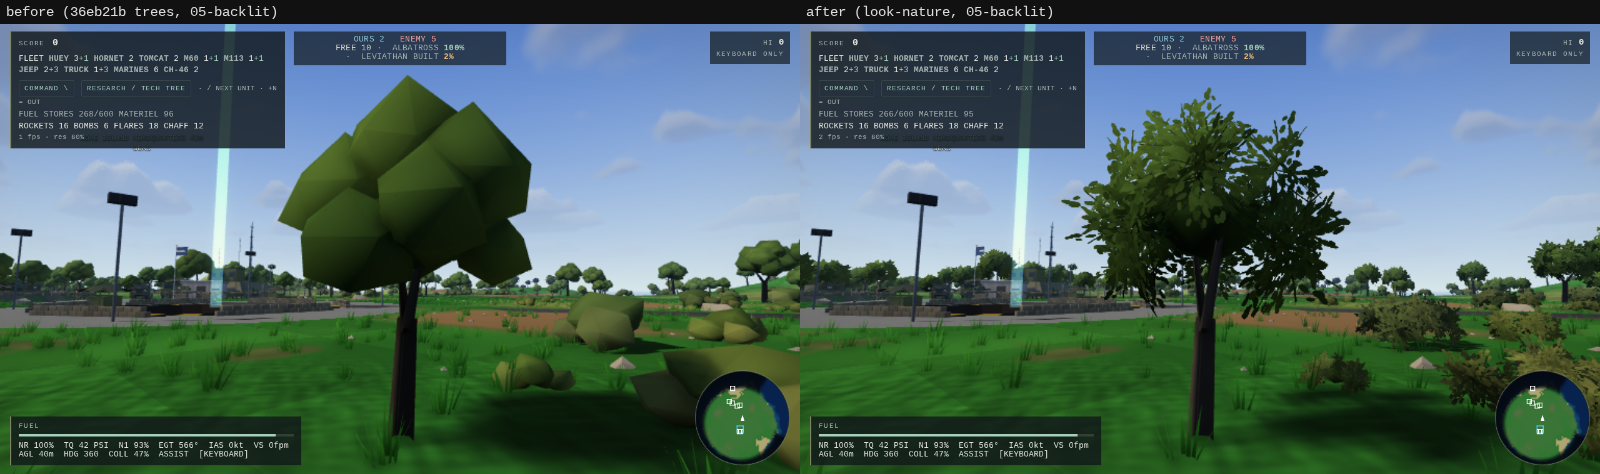
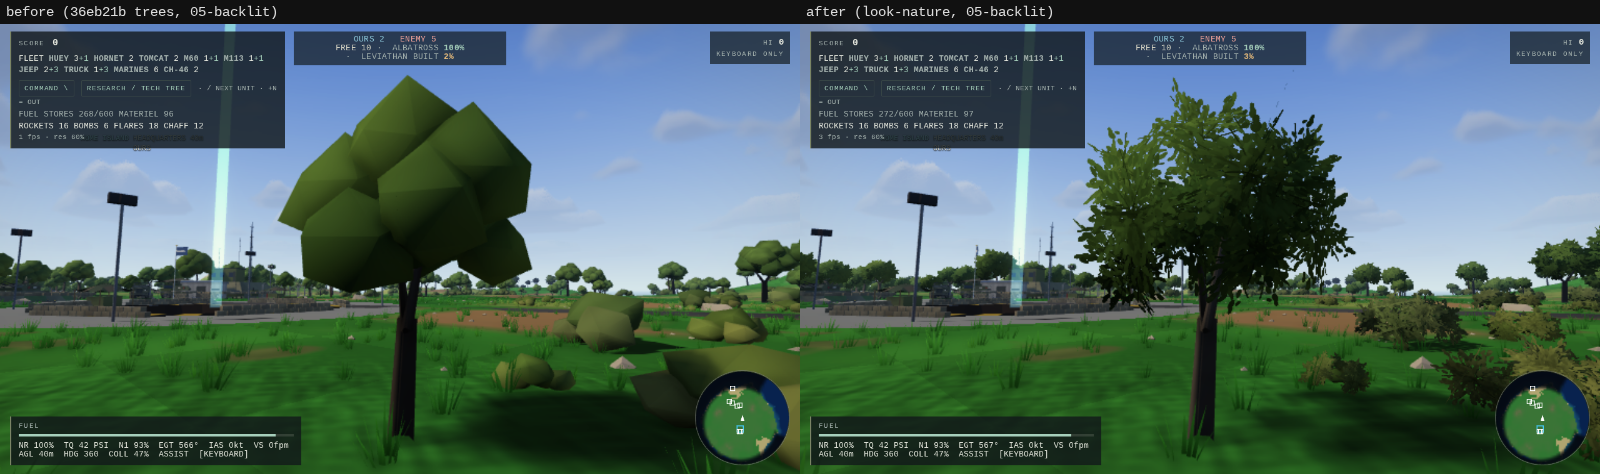
RENDERKIT nature: forest refill as a frame-budgeted job; inner leaf clusters instead of a hull; findings, MODLOG
- createForest: the refill scan runs under 2 ms a frame into staging lists and commits the
  instance buffers in one go (perf-cpu: the one-shot rebuild spiked frames up to 19.7 ms);
  clutter cell generation budget 6 -> 4 ms a frame.
- Detail oak / pine crowns: 2-3 darker inner leaf clusters replace the smooth hull, which
  showed as a ball among the cards; the mid LOD and scrub keep a small octahedron.
- Side-by-sides regenerated; findings: foot.mjs controls under load (rk=0 passes, RenderKit
  without nature fails the same carrier steps); MODLOG entry.

diff --git a/game/js/renderkit/nature.js b/game/js/renderkit/nature.js
@@ -142,11 +142,18 @@ class Builder {   // non-indexed triangles: position, normal, color (linear, AO 
     }
   }
   // ngc/look-nature: a broadleaf / pine crown as n leaf clusters (crossed cards, tile) on an ellipsoid shell round C (radii
-  // A) over a dark low-poly hull that keeps the crown from reading hollow; cluster size szK * A.x. top: 0..1 how far the
-  // clusters keep to the upper shell (the pine's umbrella). Normals point away from C: the crown shades as one volume.
-  cardCrown(C, A, n, szK, P, r, tile, { top = 0, hullOct = false, per = 3, hull = 0.46 } = {}) {
+  // A); cluster size szK * A.x. top: 0..1 how far the clusters keep to the upper shell (the pine's umbrella). What keeps
+  // the crown from reading hollow: `inner` darker clusters near the middle (detail: a smooth hull showed as a ball among
+  // the textured cards) or a low-poly hull (`hull` > 0: the mid LOD and the scrub, where it is a few pixels). Normals
+  // point away from C: the crown shades as one volume.
+  cardCrown(C, A, n, szK, P, r, tile, { top = 0, hullOct = false, per = 3, hull = 0.46, inner = 0 } = {}) {
     const ga = Math.PI * (3 - Math.sqrt(5)), ax = Math.max(A[0], A[2]);
-    this.clump(C, A[0] * hull, A[1] * hull * 0.92, A[2] * hull, mulc(P.leaf, 0.78), r, C, ax, hullOct);
+    if (hull > 0) this.clump(C, A[0] * hull, A[1] * hull * 0.92, A[2] * hull, mulc(P.leaf, 1.45), r, C, ax, hullOct);   // (clump shading takes the core to ~0.3)
+    for (let j = 0; j < inner; j++) {
+      const th = j / inner * Math.PI * 2 + r(), y = (r() - 0.5) * 0.6, d = 0.28 + r() * 0.15, dir = norm3([Math.cos(th), y, Math.sin(th)]);
+      const o = [C[0] + dir[0] * A[0] * d, C[1] + dir[1] * A[1] * d, C[2] + dir[2] * A[2] * d], col = mulc(P.leaf, 0.7);
+      this.cluster(o, dir, ax * szK * 0.95, tile, () => mulc(col, 0.85 + r() * 0.3), C, r, 3);
+    }
     for (let i = 0; i < n; i++) {
       const y = 1 - (i + 0.5) / n * (1.6 - top * 0.75), rad = Math.sqrt(Math.max(0, 1 - y * y)), th = i * ga + r() * 0.7, d = 0.72 + r() * 0.2;
       const dir = [Math.cos(th) * rad, y, Math.sin(th) * rad], o = [C[0] + dir[0] * A[0] * d, C[1] + dir[1] * A[1] * d, C[2] + dir[2] * A[2] * d];
@@ -217,11 +224,11 @@ function treeGeo(kind, level) {
     B.trunk([0, -0.4, 0], [0.12, 2.2, 0], 0.17, 0.12, detail ? 6 : 4, P.trunk);
     B.trunk([0.12, 2.2, 0], top, 0.12, 0.06, detail ? 6 : 4, P.trunk);
     if (detail) { B.trunk([0.15, 3.0, 0], [-0.75, 3.95, 0.5], 0.07, 0.03, 4, P.trunk); B.trunk([0.18, 3.2, 0], [0.95, 4.05, -0.5], 0.07, 0.03, 4, P.trunk); B.trunk([0.2, 3.6, 0.05], [0.1, 4.3, 0.95], 0.05, 0.03, 3, P.trunk); }
-    B.cardCrown([0.18, 4.6, 0.04], [1.55, 1.0, 1.45], detail ? 10 : 5, detail ? 0.56 : 0.76, P, r, 1, { top: 0.55, hullOct: !detail, hull: 0.42, per: detail ? 3 : 2 });
+    B.cardCrown([0.18, 4.6, 0.04], [1.55, 1.0, 1.45], detail ? 10 : 5, detail ? 0.56 : 0.76, P, r, 1, { top: 0.55, hullOct: !detail, hull: detail ? 0 : 0.3, inner: detail ? 2 : 0, per: detail ? 3 : 2 });
   } else if (kind === BROAD) {   // oak: short trunk, two limbs, a domed crown of leafy clusters
     B.trunk([0, -0.4, 0], [0, 1.9, 0], 0.22, 0.16, detail ? 6 : 4, P.trunk);
     if (detail) { B.trunk([0, 1.7, 0], [-0.7, 3.0, 0.35], 0.1, 0.05, 4, P.trunk); B.trunk([0, 1.7, 0], [0.7, 3.1, -0.3], 0.1, 0.05, 4, P.trunk); }
-    B.cardCrown([0, 3.4, 0], [2.05, 1.7, 1.95], detail ? 12 : 6, detail ? 0.55 : 0.76, P, r, 0, { hullOct: !detail, per: detail ? 3 : 2 });
+    B.cardCrown([0, 3.4, 0], [2.05, 1.7, 1.95], detail ? 12 : 6, detail ? 0.55 : 0.76, P, r, 0, { hullOct: !detail, hull: detail ? 0 : 0.46, inner: detail ? 3 : 0, per: detail ? 3 : 2 });
   } else {   // maquis scrub (lentisk, myrtle, broom): a low cushion of leafy clusters, no trunk to speak of. Unit: ~1.2 m tall.
     B.cardCrown([0, 0.42, 0], [0.95, 0.55, 0.9], detail ? 7 : 3, detail ? 0.55 : 0.8, P, r, 0, { top: 0.35, hullOct: true, per: detail ? 3 : 2 });
   }
@@ -507,7 +514,7 @@ export function createForest({ scene, fog = null, uTime = null, shared }) {
   }
   const sources = new Map();
   let dirty = true, farDirty = true, lastReach = 0; const last = new THREE.Vector3(1e9, 0, 0), lastDir = {};
-  const stats = { trees: 0, detail: 0, mid: 0, far: 0, ms: 0, rebuilds: 0, tris: 0 };
+  const stats = { trees: 0, detail: 0, mid: 0, far: 0, ms: 0, frames: 0, rebuilds: 0, tris: 0 };
   // trees: Float32Array x y z s per tree (+ optional kinds Uint8Array, seeds), far: draw past the near radius too (zone)
   function add(id, d, kinds, { far = false } = {}) {
     const n = kinds.length, D = new Float32Array(n * 8), C = new Float32Array(n * 3);
@@ -533,39 +540,56 @@ export function createForest({ scene, fog = null, uTime = null, shared }) {
     const s = sources.get(id); if (!s) return; const l = Math.hypot(dx, dz) || 1;
     s.d[i * 8 + 5] = dz / l * 1.35; s.d[i * 8 + 6] = -dx / l * 1.35; dirty = true; if (s.far) farDirty = true;
   }
-  function rebuild(cx, cy, cz, reach, C) {
-    const t0 = performance.now(), T = shared.tier, dOut = T.detailR + T.band + 12, mOut = Math.min(LOD.near + LOD.blend, reach) + 12, mIn = T.detailR - T.band - 12;
-    const M = T.liteMid ? sets.lite : sets.mid;   // the mid trees: icosahedron clumps, or octahedra on the low tier
-    for (const k of K) { sets.detail[k].begin(); sets.mid[k].begin(); sets.lite[k].begin(); }
-    let nd = 0, nm = 0;
-    for (const s of sources.values()) {
-      const bx = Math.max(s.x0 - cx, 0, cx - s.x1), bz = Math.max(s.z0 - cz, 0, cz - s.z1);
-      if (bx * bx + bz * bz > mOut * mOut) continue;
-      const D = s.d;
-      for (let i = 0; i < s.n; i++) {
-        const dx = D[i * 8] - cx, dy = D[i * 8 + 1] - cy, dz = D[i * 8 + 2] - cz, dd = dx * dx + dy * dy + dz * dz;
-        if (dd > mOut * mOut) continue;
-        const sc = D[i * 8 + 3]; if (!inCone(C, D[i * 8], D[i * 8 + 1] + 2.5 * sc, D[i * 8 + 2], 7 * sc + 3)) continue;   // (the crown and its shadow)
-        const k = s.k[i];
-        if (dd < dOut * dOut) { sets.detail[k].push(s, i); nd++; }
-        if (dd > mIn * mIn || mIn < 0) { M[k].push(s, i); nm++; }
+  // ngc/look-nature: the refill is a job spread over frames (perf-cpu profile: the one-shot rebuild spiked a frame by up to
+  // ~20 ms in the wild forests). The scan (distance + view cone per tree) runs under REBUILD_MS a frame into staging lists
+  // and the instance buffers are written in one commit at the end, so a set is never half-built (the old set stays on screen
+  // until then). Cone margin and the 6 m / CONE_TURN triggers leave room for the few frames a job takes.
+  const REBUILD_MS = 2;
+  let job = null;
+  function startJob(cx, cy, cz, reach, C) {
+    const T = shared.tier;
+    job = { cx, cy, cz, C, t0: performance.now(), work: 0, frames: 0, srcs: [...sources.values()], si: 0, i: 0, phase: 0,
+      dOut: T.detailR + T.band + 12, mOut: Math.min(LOD.near + LOD.blend, reach) + 12, mIn: T.detailR - T.band - 12, fIn: Math.max(0, LOD.near - LOD.blend - 12),
+      M: T.liteMid ? 'lite' : 'mid', pick: { detail: K.map(() => []), mid: K.map(() => []), far: K.map(() => []) } };   // pick[level][kind] = [source, index, ...]
+  }
+  function stepJob(budget) {   // true when the scan is done
+    const J = job, tEnd = performance.now() + budget, { cx, cy, cz, C, dOut, mOut, mIn, fIn } = J;
+    let n = 0;
+    while (J.phase < 2) {
+      if (J.si >= J.srcs.length) { J.phase++; J.si = 0; J.i = 0; continue; }
+      const s = J.srcs[J.si], D = s.d;
+      if (J.i === 0) {   // whole sources out of reach (the mid / detail pass) or not the zone's (the far pass) are skipped at once
+        const bx = Math.max(s.x0 - cx, 0, cx - s.x1), bz = Math.max(s.z0 - cz, 0, cz - s.z1);
+        if (J.phase === 0 ? bx * bx + bz * bz > mOut * mOut : !s.far) { J.si++; continue; }
       }
-    }
-    let tris = 0;
-    for (const k of K) { sets.detail[k].end(); sets.mid[k].end(); sets.lite[k].end(); tris += sets.detail[k].n * sets.detail[k].tris + M[k].n * M[k].tris; }
-    {   // the zone's far set: only past the near band (inside it the far material discards every pixel) and in the cone
-      farDirty = false; const fIn = Math.max(0, LOD.near - LOD.blend - 12);
-      for (const k of K) sets.far[k].begin();
-      for (const s of sources.values()) if (s.far) for (let i = 0; i < s.n; i++) {
-        if (s.k[i] === SCRUB) continue;
-        const D = s.d, dx = D[i * 8] - cx, dy = D[i * 8 + 1] - cy, dz = D[i * 8 + 2] - cz, sc = D[i * 8 + 3];
-        if (dx * dx + dy * dy + dz * dz < fIn * fIn || !inCone(C, D[i * 8], D[i * 8 + 1] + 2.5 * sc, D[i * 8 + 2], 4 * sc + 2)) continue;
-        sets.far[s.k[i]].push(s, i);
+      for (; J.i < s.n; J.i++) {
+        if ((++n & 255) === 0 && performance.now() > tEnd) return false;
+        const i = J.i, dx = D[i * 8] - cx, dy = D[i * 8 + 1] - cy, dz = D[i * 8 + 2] - cz, dd = dx * dx + dy * dy + dz * dz, sc = D[i * 8 + 3], k = s.k[i];
+        if (J.phase === 0) {
+          if (dd > mOut * mOut || !inCone(C, D[i * 8], D[i * 8 + 1] + 2.5 * sc, D[i * 8 + 2], 7 * sc + 3)) continue;   // (the crown and its shadow)
+          if (dd < dOut * dOut) J.pick.detail[k].push(s, i);
+          if (dd > mIn * mIn || mIn < 0) J.pick.mid[k].push(s, i);
+        } else {   // the zone's far set: only past the near band (inside it the far material discards every pixel) and in the cone
+          if (k === SCRUB || dd < fIn * fIn || !inCone(C, D[i * 8], D[i * 8 + 1] + 2.5 * sc, D[i * 8 + 2], 4 * sc + 2)) continue;
+          J.pick.far[k].push(s, i);
+        }
       }
-      for (const k of K) sets.far[k].end();
+      J.si++; J.i = 0;
     }
-    for (const k of K) tris += sets.far[k].n * sets.far[k].tris;
-    Object.assign(stats, { detail: nd, mid: nm, far: K.reduce((a, k) => a + sets.far[k].n, 0), ms: +(performance.now() - t0).toFixed(2), tris, trees: [...sources.values()].reduce((a, s) => a + s.n, 0) });
+    return true;
+  }
+  function commitJob() {
+    const J = job, t0 = performance.now(), M = sets[J.M]; job = null; farDirty = false;
+    let tris = 0, nd = 0, nm = 0;
+    for (const k of K) {
+      for (const [lvl, set] of [['detail', sets.detail[k]], ['mid', M[k]], ['far', sets.far[k]]]) {
+        const L = J.pick[lvl][k]; set.begin(); for (let j = 0; j < L.length; j += 2) set.push(L[j], L[j + 1]); set.end(); tris += set.n * set.tris;
+      }
+      for (const lv of ['mid', 'lite']) if (lv !== J.M) { sets[lv][k].begin(); sets[lv][k].end(); }
+      nd += sets.detail[k].n; nm += M[k].n;
+    }
+    J.work += performance.now() - t0;
+    Object.assign(stats, { detail: nd, mid: nm, far: K.reduce((a, k) => a + sets.far[k].n, 0), ms: +J.work.toFixed(2), frames: J.frames, tris, trees: J.srcs.reduce((a, s) => a + s.n, 0) });
     stats.rebuilds++;
   }
   function update(cam) {
@@ -573,7 +597,8 @@ export function createForest({ scene, fog = null, uTime = null, shared }) {
     // the mid set reaches the world near radius or the far clip, whichever is nearer (on foot the haze ends at ~265 m);
     // the zone's far set exists only for views that reach past the near band (the jet)
     const reach = cam.far || 1e4, farOn = reach > LOD.near - LOD.blend;
-    if (dirty || p.distanceToSquared(last) > 36 || Math.abs(reach - lastReach) > 40 || coneMoved(cam, lastDir)) { dirty = false; last.copy(p); lastReach = reach; coneMark(cam, lastDir); rebuild(p.x, p.y, p.z, reach, viewCone(cam)); }
+    if (!job && (dirty || p.distanceToSquared(last) > 36 || Math.abs(reach - lastReach) > 40 || coneMoved(cam, lastDir))) { dirty = false; last.copy(p); lastReach = reach; coneMark(cam, lastDir); startJob(p.x, p.y, p.z, reach, viewCone(cam)); }
+    if (job) { const t = performance.now(); job.frames++; const done = stepJob(REBUILD_MS); job.work += performance.now() - t; if (done) commitJob(); }
     for (const k of K) sets.far[k].mesh.visible = farOn && sets.far[k].n > 0;
     stats.farOn = farOn;
   }
@@ -663,7 +688,7 @@ export function createClutter({ scene, fog = null, uTime = null, shared, sample 
       const i = ci + di, j = cj + dj, x = (i + 0.5) * CELL - p.x, z = (j + 0.5) * CELL - p.z;
       if (x * x + z * z > (reach + CELL) * (reach + CELL)) continue;
       let c = cells.get(key(i, j));
-      if (!c) { if (genBudget > 6) { complete = false; continue; } const g0 = performance.now(); c = gen(i, j); cells.set(key(i, j), c); genBudget += performance.now() - g0; }
+      if (!c) { if (genBudget > 4) { complete = false; continue; } const g0 = performance.now(); c = gen(i, j); cells.set(key(i, j), c); genBudget += performance.now() - g0; }   // (generation budget 6 -> 4 ms a frame: ngc/look-nature, frame spikes)
       c.used = true;   // (cells out of the cone are generated too, nearest first, so a turn finds them ready)
       if (!inCone(C, (i + 0.5) * CELL, c.y, (j + 0.5) * CELL, CELL * 0.71 + 2.5 + c.dy)) continue;
       for (const t of types) { const a = c[t], d = dens[t]; for (let o = 0; o < a.length; o += 11) if (fract(a[o + 7] * 7.31) < d) pushRaw(sets[t], a, o); }

diff --git a/docs/ngc1980/findings/look-nature.md b/docs/ngc1980/findings/look-nature.md
@@ -44,8 +44,9 @@ Huey at 30 m and 200 m, and the jet at 1200 m.
   RGB is a grey leaf-to-leaf shade that multiplies the vertex colour, and A is the mask. Transparent texels carry mid grey
   so the mips don't darken the edges.
 - **Cards** (`Builder.card / cluster / cardCrown / fringe`): a crown is 10-12 clusters of three crossed cards (one
-  across the outward direction, two along it, turned at random) on an ellipsoid shell. They sit over a small dark
-  low-poly hull (46 % of the crown, 42 % for the pine), so the crown never reads hollow. Normals are bent to point away
+  across the outward direction, two along it, turned at random) on an ellipsoid shell, plus 2-3 darker inner clusters near the middle so the crown never reads hollow. A first version
+  used a smooth low-poly hull for that, and it showed as a dark (then a smooth green) ball among the textured cards in
+  the village and forest-edge views. The mid LOD and the scrub keep a small octahedron hull, a few pixels at their size. Normals are bent to point away
   from the crown's centre (sphere normals, bend 0.8), so a crown shades as one soft volume. AO is baked per vertex from
   the corner's place in the crown. The fir keeps a smaller, darker star skirt as its inner mass, fringed by 10 drooping
   branch-spray cards per tier (alternate heights, random roll) and a leader tuft. Maquis (and the clutter bushes, which
@@ -65,7 +66,7 @@ Huey at 30 m and 200 m, and the jet at 1200 m.
 - **Grass tufts**: 13 -> 10 blades, slightly wider. The 15 random draws of the dropped blades are burnt, so the clutter
   rocks built next from the same stream keep their exact shapes (rocks belong to look-terrain).
 
-Triangles per tree (detail / mid; before -> after): oak 228 / 88 -> 120 / 40; pine 220 / 96 -> 126 / 44; fir
+Triangles per tree (detail / mid; before -> after): oak 228 / 88 -> 118 / 40; pine 220 / 96 -> 118 / 44; fir
 152 / 38 -> 170 / 74; maquis and the clutter bush 80 / 40 -> 50 / 20; grass tuft 39 -> 30.
 
 ## 2026-10-28 - Village, garden and hedgerow trees on the species
@@ -98,3 +99,35 @@ double-sided throughout, cost 261 ms. Whole-frame sync draw times between separa
 machine (the jet view, whose geometry is unchanged, measured 434 and 537 ms), so they're logged per view by
 `looknature.mjs` but not compared. A close crown filling the screen costs more fill than a blob (3-4 card layers);
 that is the honest trade, and the real-GPU A/B is still open.
+
+## 2026-10-28 - Forest refill spread over frames (perf-cpu request)
+**Finding**: the perf-cpu agent's profile found `createForest rebuild` (the one-shot refill) spiking frames by up to
+19.7 ms. It scanned every tree of every source in reach, then wrote the instance buffers, all in one frame. The view
+cone makes refills more frequent (a 0.16 rad turn triggers one), so this mattered more.
+**Action**: the refill is a job (`startJob / stepJob / commitJob`). The scan (distance + cone per tree, then the zone's
+far set) runs under `REBUILD_MS` = 2 ms a frame into staging lists of (source, index). The buffers are written in one
+commit when the scan ends, so a set is never half-built, and the previous set stays on screen until then (the result is
+identical to the one-shot rebuild). A new job starts only after the current one commits; sources added or felled
+meanwhile set `dirty` for the next one. `stats.forest.frames` tells how many frames a job took. The clutter's cell
+generation budget went from 6 to 4 ms a frame for the same reason (cells fill a frame or two later after a teleport;
+the end result is the same).
+**Evidence**: `_probe_spike` (local, not committed: eye walking and turning 0.6 rad every 0.7 s through the mainland
+forest at (2600, 900), 16.8 k trees in sources, machine load ~70 on 32 cores). The forest update peaked at 4.3 ms, p95
+1.1 ms, median 0. Clutter peaked at 7.6 ms with the 6 ms budget (measured before the cut to 4 ms).
+
+## 2026-10-28 - foot.mjs and machine load (OPEN)
+**Finding**: foot.mjs passed 12/12 after the view cone (8148fcc, load moderate). On the card build under load 45-110
+on 32 cores (other agents' headless runs), it failed 11/17. The steps that failed included the carrier turn at sea (a
+60 s wait) and the boot, which have nothing to do with the trees.
+**Evidence**: an in-page A/B at the stern ladder (`_probe_stern2`: forest shown / hidden, interleaved twice, 10 s each)
+gave 1.0 / 0.9 fps with the forest shown and 0.9 / 0.8 hidden (card build), and 1.2 / 1.0 shown, 1.1 / 1.1 hidden
+(old trees). The forest makes no measurable difference to that frame, and the frame rate is set by the load.
+**Cause**: the main loop clamps dt to 0.1 s, so below 10 fps game time runs slower than real time. foot.mjs's
+fixed real-time waits (40 s for an 8.5 game-second climb) need ~2.3 fps at res 0.45. Without nature, at moderate
+load, it already used 35 of the 40 s.
+**Controls under the same load (~70-85)**: `?rk=0` PASS 12/12. Every RenderKit area except nature FAIL 11/15 (the
+carrier turn, both ladders, the deck height). The full build (with nature) FAIL 10/17 (the same, plus the walk to the
+home pad and the final take-off). Under load the RenderKit build as a whole is too slow for foot's real-time waits.
+Nature adds the HQ-area steps, where its draw cost is highest.
+**Action**: nothing more in the game (nature's draw at the HQ is below the depth-nature build's: 1378 -> 566 kt). The suite needs a quiet machine,
+or game-time waits in the harness (a test-tool change, not made here: the brief said not to weaken the test).

diff --git a/MODLOG.md b/MODLOG.md
@@ -1,5 +1,21 @@
 # MODLOG — NGC-1980 (formerly Thrust/Zarch)
 
+## 2026-10-28 — look-nature: leaf-card trees, village trees on the species, foot.mjs with nature on
+
+Tree crowns were clusters of faceted icosahedra. On `ngc/look-nature` they are clustered leaf cards over a small dark
+hull, using a generated leaf atlas (broadleaf, pine tufts, fir sprays), with alpha-to-coverage edges, sphere normals,
+translucency toward the sun and leafy shadows. The fir is star skirts fringed with drooping branch sprays. Village,
+garden and hedgerow trees, which were the old trunk-and-blob merged into the world mesh, are now instances of the same
+species. Grass tufts have 10 blades, not 13.
+
+The nature sets were drawn without frustum culling and refilled with the whole ring round the eye. They now refill
+within the view cone, and the forest refill is spread over frames (2 ms a frame, one commit). At the home island HQ
+this takes rendered triangles from 1378 k to 566 k. foot.mjs failed 3/14 with nature on because the extra draw
+stretched its game-time waits; it passed 12/12 after the cone. Under heavy machine load from other agents it can still
+time out (see [findings](docs/ngc1980/findings/look-nature.md)). Before/after side-by-sides for the HQ, single trees,
+the forest edge, a village, the Huey at 30 / 200 m and the jet at 1200 m are in
+`docs/ngc1980/evidence/look-nature/` (`tools/scenes/looknature.mjs`).
+
 ## 2026-10-26 — Continuum reusable shader and UI library
 
 Added an opt-in Three r170/WebGL2 library on `ngc/shader-library`: physical surface presets and
